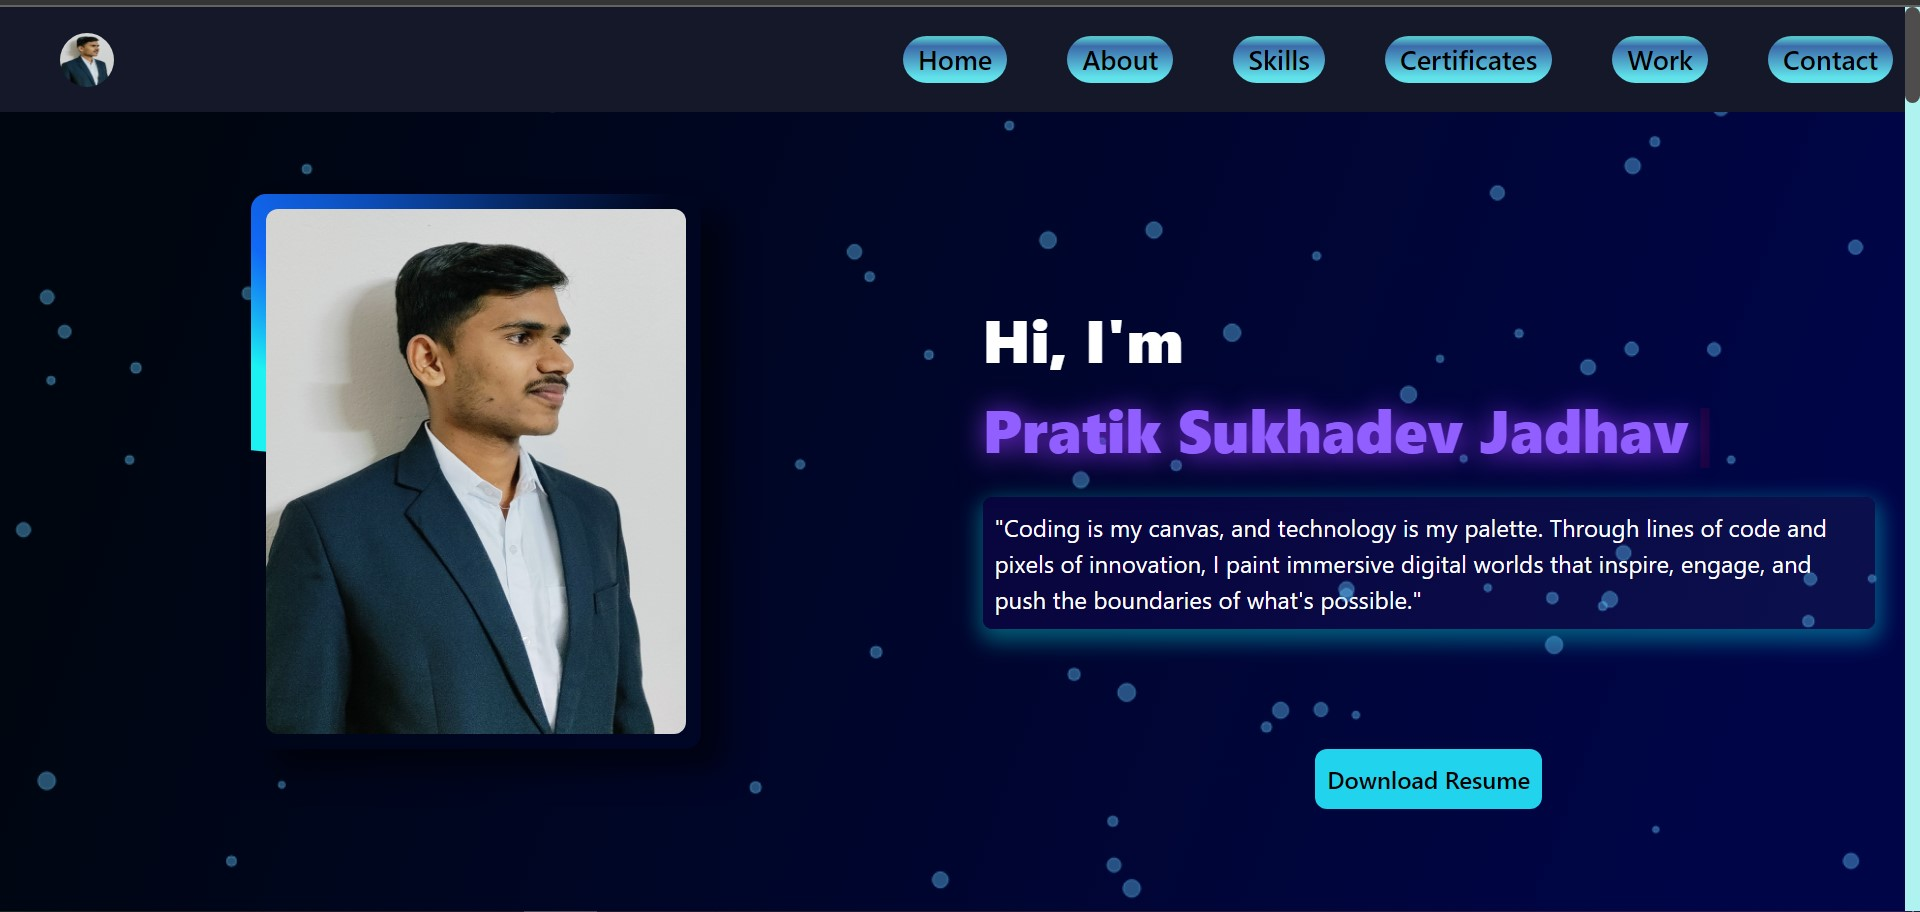
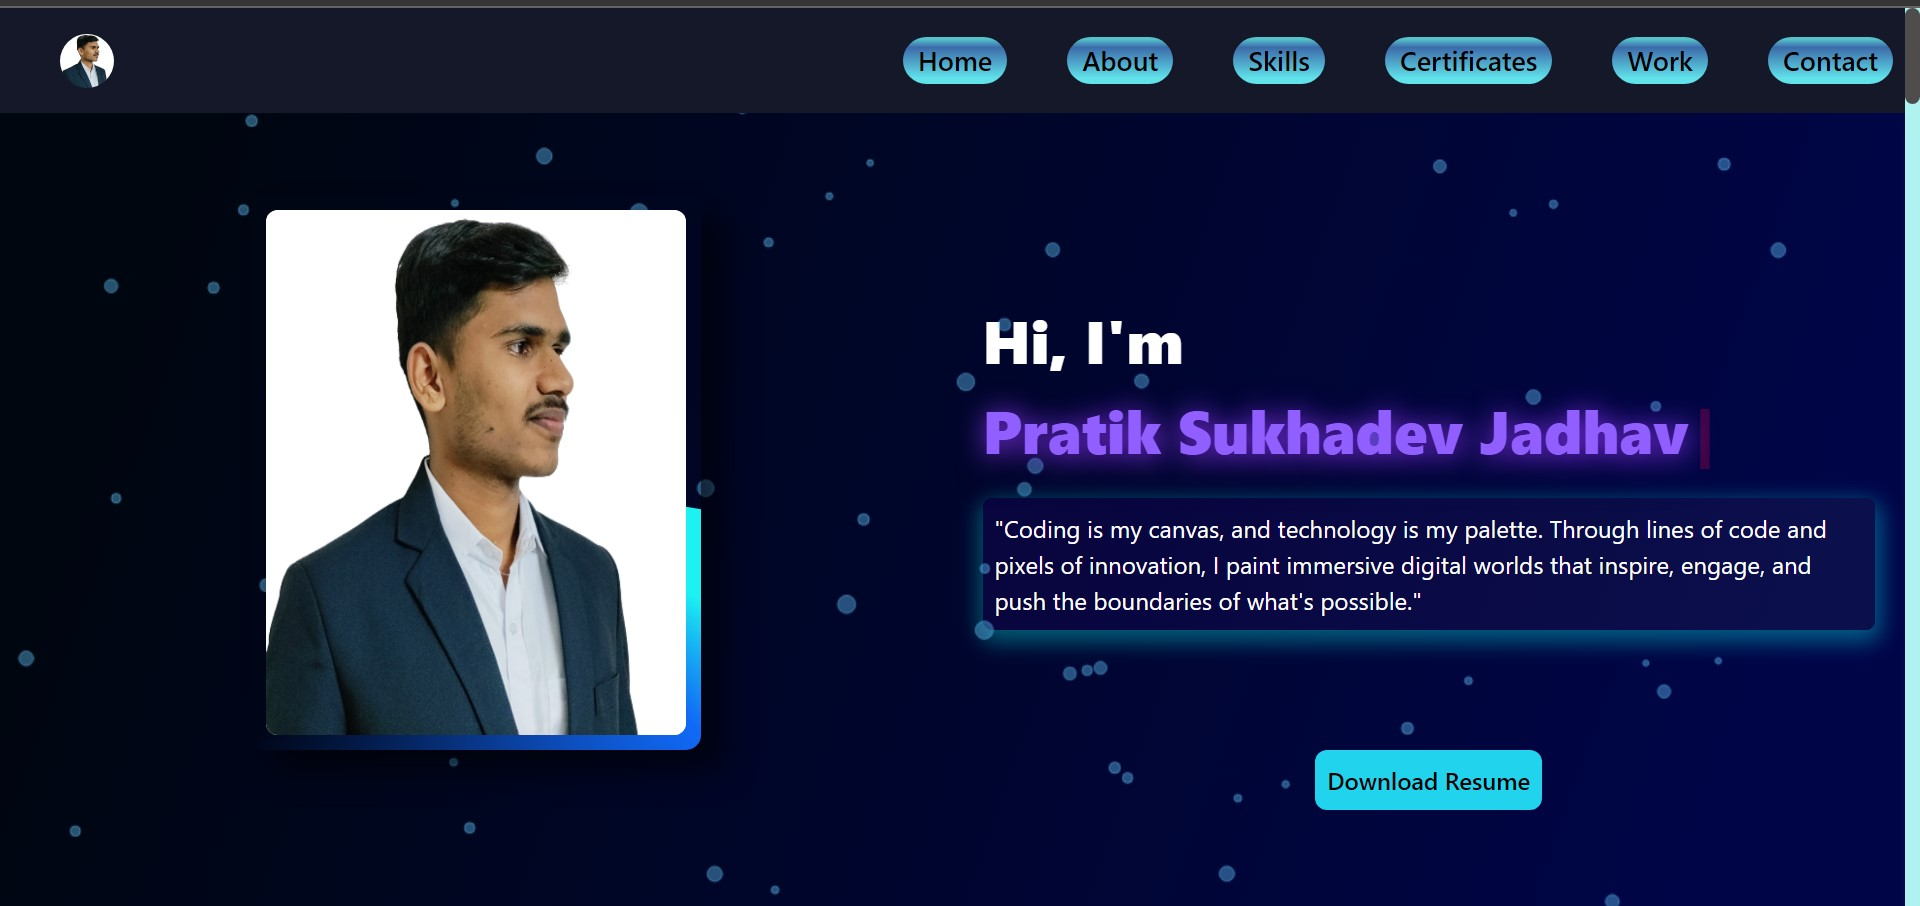
Updated profile image and attendify image

diff --git a/src/assets/index.js b/src/assets/index.js
@@ -1,6 +1,6 @@
 import menu from "./menu.svg";
 import close from "./close.svg";
-import profileImg from "./profileImg.jpg";
+import profileImg from "./profileImg.png";
 import dummy from "./dummy.jpg";
 import mernStack from "./mernStack.png";
 import frontend from "./frontend.png";
